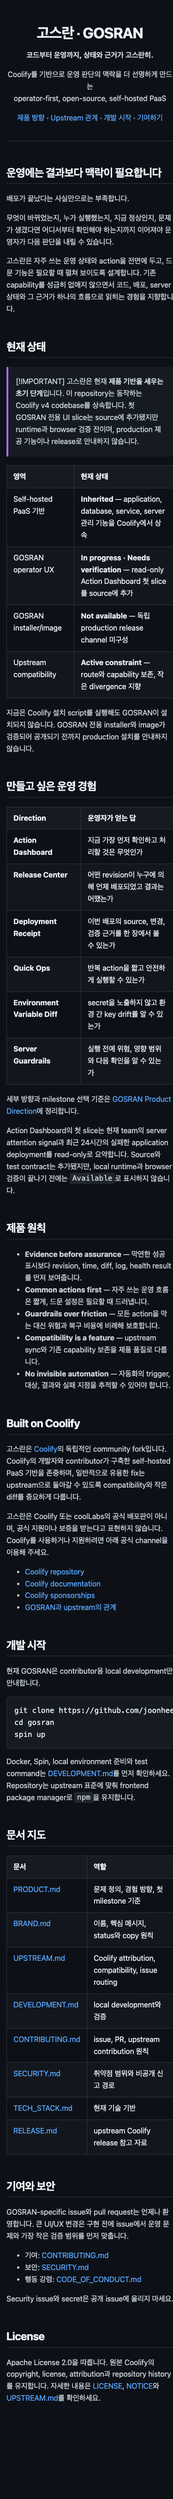
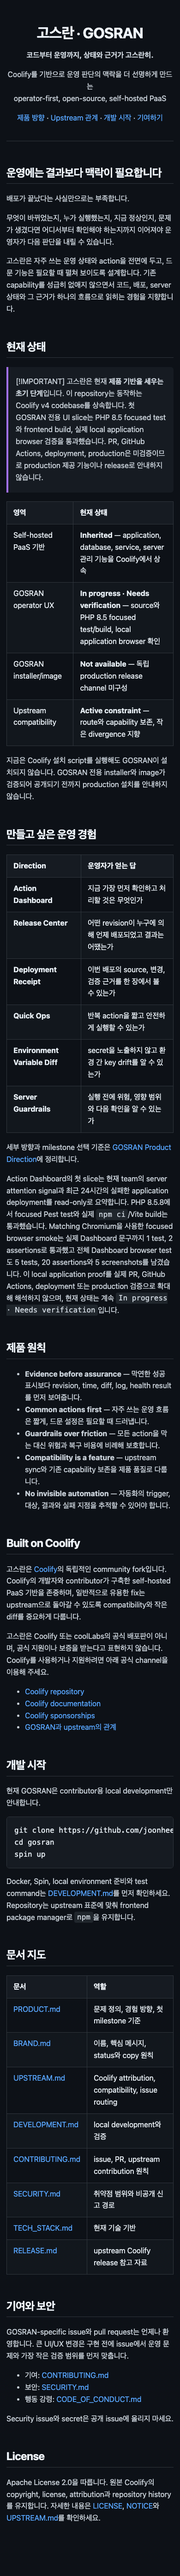
feat(dashboard): close first local milestone

Changed region(s): [[0.0293, 0.0, 0.968, 0.9989]]

diff --git a/tests/Feature/DeploymentShowAuthorizationTest.php b/tests/Feature/DeploymentShowAuthorizationTest.php
@@ -1,0 +1,171 @@
+<?php
+
+use App\Enums\ApplicationDeploymentStatus;
+use App\Models\Application;
+use App\Models\ApplicationDeploymentQueue;
+use App\Models\Environment;
+use App\Models\InstanceSettings;
+use App\Models\Project;
+use App\Models\Server;
+use App\Models\StandaloneDocker;
+use App\Models\Team;
+use App\Models\User;
+use Illuminate\Foundation\Testing\RefreshDatabase;
+
+uses(RefreshDatabase::class);
+
+beforeEach(function () {
+    $this->user = User::factory()->create();
+    $this->team = Team::factory()->create();
+    $this->team->members()->attach($this->user->id, ['role' => 'owner']);
+
+    InstanceSettings::unguarded(function () {
+        InstanceSettings::query()->create([
+            'id' => 0,
+            'is_registration_enabled' => true,
+        ]);
+    });
+
+    $this->actingAs($this->user);
+    session(['currentTeam' => $this->team]);
+
+    $this->server = Server::factory()->create(['team_id' => $this->team->id]);
+    $this->destination = StandaloneDocker::query()->where('server_id', $this->server->id)->firstOrFail();
+    $this->project = Project::factory()->create(['team_id' => $this->team->id]);
+    $this->environment = Environment::factory()->create(['project_id' => $this->project->id]);
+    $this->application = Application::factory()->create([
+        'environment_id' => $this->environment->id,
+        'destination_id' => $this->destination->id,
+        'destination_type' => $this->destination->getMorphClass(),
+        'status' => 'running',
+    ]);
+});
+
+function createDeploymentShowQueue(
+    Application $application,
+    Server $server,
+    string $deploymentUuid,
+    string $logOutput,
+): ApplicationDeploymentQueue {
+    return ApplicationDeploymentQueue::query()->create([
+        'application_id' => $application->id,
+        'deployment_uuid' => $deploymentUuid,
+        'server_id' => $server->id,
+        'status' => ApplicationDeploymentStatus::FINISHED->value,
+        'logs' => json_encode([[
+            'command' => null,
+            'output' => $logOutput,
+            'type' => 'stdout',
+            'timestamp' => now()->toISOString(),
+            'hidden' => false,
+            'batch' => 1,
+            'order' => 1,
+        ]], JSON_THROW_ON_ERROR),
+    ]);
+}
+
+function deploymentShowUrl(
+    Project $project,
+    Environment $environment,
+    Application $application,
+    ApplicationDeploymentQueue $deployment,
+): string {
+    return route('project.application.deployment.show', [
+        'project_uuid' => $project->uuid,
+        'environment_uuid' => $environment->uuid,
+        'application_uuid' => $application->uuid,
+        'deployment_uuid' => $deployment->deployment_uuid,
+    ]);
+}
+
+function deploymentIndexUrl(
+    Project $project,
+    Environment $environment,
+    Application $application,
+): string {
+    return route('project.application.deployment.index', [
+        'project_uuid' => $project->uuid,
+        'environment_uuid' => $environment->uuid,
+        'application_uuid' => $application->uuid,
+    ]);
+}
+
+it('redirects when the deployment belongs to another team', function () {
+    $otherTeam = Team::factory()->create();
+    $otherServer = Server::factory()->create(['team_id' => $otherTeam->id]);
+    $otherDestination = StandaloneDocker::query()->where('server_id', $otherServer->id)->firstOrFail();
+    $otherProject = Project::factory()->create(['team_id' => $otherTeam->id]);
+    $otherEnvironment = Environment::factory()->create(['project_id' => $otherProject->id]);
+    $otherApplication = Application::factory()->create([
+        'environment_id' => $otherEnvironment->id,
+        'destination_id' => $otherDestination->id,
+        'destination_type' => $otherDestination->getMorphClass(),
+    ]);
+    $otherDeployment = createDeploymentShowQueue(
+        $otherApplication,
+        $otherServer,
+        'other-team-deployment',
+        'private deployment output',
+    );
+
+    $response = $this->get(deploymentShowUrl(
+        $this->project,
+        $this->environment,
+        $this->application,
+        $otherDeployment,
+    ));
+
+    $response->assertRedirect(deploymentIndexUrl(
+        $this->project,
+        $this->environment,
+        $this->application,
+    ));
+    $response->assertDontSee('private deployment output');
+});
+
+it('redirects when the deployment belongs to another application in the same team', function () {
+    $otherApplication = Application::factory()->create([
+        'environment_id' => $this->environment->id,
+        'destination_id' => $this->destination->id,
+        'destination_type' => $this->destination->getMorphClass(),
+    ]);
+    $otherDeployment = createDeploymentShowQueue(
+        $otherApplication,
+        $this->server,
+        'same-team-other-application-deployment',
+        'other application output',
+    );
+
+    $response = $this->get(deploymentShowUrl(
+        $this->project,
+        $this->environment,
+        $this->application,
+        $otherDeployment,
+    ));
+
+    $response->assertRedirect(deploymentIndexUrl(
+        $this->project,
+        $this->environment,
+        $this->application,
+    ));
+    $response->assertDontSee('other application output');
+});
+
+it('loads a deployment that belongs to the authorized application', function () {
+    $deployment = createDeploymentShowQueue(
+        $this->application,
+        $this->server,
+        'authorized-application-deployment',
+        'authorized deployment output',
+    );
+
+    $response = $this->get(deploymentShowUrl(
+        $this->project,
+        $this->environment,
+        $this->application,
+        $deployment,
+    ));
+
+    $response->assertSuccessful();
+    $response->assertSee('authorized deployment output');
+});

diff --git a/tests/v4/Browser/DashboardTest.php b/tests/v4/Browser/DashboardTest.php
@@ -13,7 +13,7 @@ use Illuminate\Support\Facades\Hash;
 uses(RefreshDatabase::class);
 
 beforeEach(function () {
-    InstanceSettings::create(['id' => 0, 'is_sponsorship_popup_enabled' => false]);
+    InstanceSettings::unguarded(fn () => InstanceSettings::create(['id' => 0, 'is_sponsorship_popup_enabled' => false]));
 
     $this->user = User::factory()->create([
         'id' => 0,
@@ -119,7 +119,7 @@ it('shows onboarding after first login', function () {
 });
 
 it('shows dashboard after skipping onboarding', function () {
-    $page = loginAndSkipBoarding();
+    $page = loginAndSkipBoarding(loginPage: visit('/login'));
 
     $page->assertSee('Dashboard')
         ->assertSee('Your self-hosted infrastructure.')
@@ -127,7 +127,7 @@ it('shows dashboard after skipping onboarding', function () {
 });
 
 it('shows all projects on dashboard', function () {
-    $page = loginAndSkipBoarding();
+    $page = loginAndSkipBoarding(loginPage: visit('/login'));
 
     $page->assertSee('Projects')
         ->assertSee('My first project')
@@ -140,7 +140,7 @@ it('shows all projects on dashboard', function () {
 });
 
 it('shows servers on dashboard', function () {
-    $page = loginAndSkipBoarding();
+    $page = loginAndSkipBoarding(loginPage: visit('/login'));
 
     $page->assertSee('Servers')
         ->assertSee('localhost')

diff --git a/tests/Pest.php b/tests/Pest.php
@@ -2,6 +2,7 @@
 
 use App\Models\Server;
 use Illuminate\Support\Once;
+use Pest\Browser\Api\PendingAwaitablePage;
 use Tests\TestCase;
 
 /*
@@ -32,9 +33,12 @@ beforeEach(function () {
     Server::flushIdentityMap();
 });
 
-function loginAndSkipBoarding(string $email = 'test@example.com', string $password = 'password'): mixed
-{
-    return visit('/login')
+function loginAndSkipBoarding(
+    PendingAwaitablePage $loginPage,
+    string $email = 'test@example.com',
+    string $password = 'password',
+): mixed {
+    return $loginPage
         ->fill('email', $email)
         ->fill('password', $password)
         ->click('Login')

diff --git a/app/Livewire/Project/Application/Deployment/Show.php b/app/Livewire/Project/Application/Deployment/Show.php
@@ -47,7 +47,9 @@ class Show extends Component
         if (! $application) {
             return redirect()->route('dashboard');
         }
-        $application_deployment_queue = ApplicationDeploymentQueue::where('deployment_uuid', $deploymentUuid)->first();
+        $application_deployment_queue = $application->deployment_queue()
+            ->where('deployment_uuid', $deploymentUuid)
+            ->first();
         if (! $application_deployment_queue) {
             return redirect()->route('project.application.deployment.index', [
                 'project_uuid' => $project->uuid,

diff --git a/bootstrap/helpers/databases.php b/bootstrap/helpers/databases.php
@@ -17,10 +17,8 @@ use App\Models\SwarmDocker;
 use Illuminate\Support\Collection;
 use Illuminate\Support\Facades\Storage;
 use Illuminate\Support\Str;
-use RuntimeException;
 use Symfony\Component\HttpFoundation\File\Exception\FileNotFoundException;
 use Symfony\Component\HttpFoundation\StreamedResponse;
-use Throwable;
 
 function create_standalone_postgresql($environmentId, StandaloneDocker|SwarmDocker $destination, ?array $otherData = null, string $databaseImage = 'postgres:16-alpine'): StandalonePostgresql
 {

diff --git a/docs/artifacts/gosran-docs/claim-boundaries.md b/docs/artifacts/gosran-docs/claim-boundaries.md
@@ -13,12 +13,28 @@ Date: 2026-07-30
   and `npm` according to local manifests, lockfiles, Docker Compose files, and project instructions.
 - The source now contains a read-only Dashboard `Operations` slice for current-team server attention
   signals and recent failed application deployments.
+- PHP 8.5.8 local verification passed Composer validate/install/dump-autoload and package discovery;
+  isolated Pint made no changes.
+- `DashboardOperationsTest` passed with 7 tests and 35 assertions;
+  `DeploymentShowAuthorizationTest` passed with 3 tests and 8 assertions.
+- A real `npm ci` and Vite build passed, using loopback Redis for the focused runtime checks.
+- `pr-quality.yaml` alone passed actionlint 1.7.12. All 15 workflows parse, and the branch contract
+  check passed.
+- The npm dependency lane reported 0 vulnerabilities and passed its Vite build.
+- Local application browser proof passed on PHP 8.5.8 with Pest Browser 4.3.1, Playwright 1.59.1,
+  matching Chromium 147.0.7727.0, loopback Redis, and a temporary SQLite file runtime.
+- The focused Dashboard smoke passed with 1 test and 2 assertions against real Dashboard copy and
+  generated `tests/Browser/Screenshots/it_shows_dashboard_after_skipping_onboarding.png`.
+- The complete `tests/v4/Browser/DashboardTest.php` passed with 5 tests and 20 assertions and
+  generated 5 screenshots.
 
 ## In Progress, Not Yet Available
 
-The Action Dashboard slice is labeled `In progress · Needs verification`. Source inspection confirms
-the implementation and test contract, but no PHP test run or browser render has been completed in
-this checkout.
+The Action Dashboard slice is labeled `In progress · Needs verification`. Focused local Pest and
+frontend build evidence and real local application browser evidence now exist on PHP 8.5.8. The
+previous Pest Browser to Playwright client blocker is resolved. The static README render in this
+artifact is separate documentation evidence; the Dashboard browser tests and their screenshots are
+the application browser evidence.
 
 ## Direction, Not Current Capability
 
@@ -38,13 +54,20 @@ No document presents these items as implemented or production-verified.
 - Running the Coolify installer does not install GOSRAN.
 - No GOSRAN managed cloud is offered.
 - No production-readiness, uptime, security-response SLA, or official Coolify endorsement is claimed.
+- Local PHP 8.5 and application browser verification are not presented as actual PR or GitHub
+  Actions, deployment, or production proof.
+- Whole-repository actionlint is not clean because of pre-existing SC2086 warnings in seven unrelated
+  workflows; only `pr-quality.yaml` is claimed to pass actionlint.
 - The retained `RELEASE.md` is clearly marked as an upstream reference and not a GOSRAN release
   procedure.
-- The inherited PR workflow is disclosed as not yet adapted to GOSRAN's branch policy.
+- A pending local workflow change targets `v4.x` and passed its scoped static checks, but no actual PR
+  or GitHub Actions run verifies it. Public contribution documents remain conservative until the
+  parent integrates that separate lane.
 
 ## Open Operational Gaps
 
 - GOSRAN-specific release, signing, upgrade, rollback, and artifact registry policy are undefined.
 - A dedicated private security and conduct contact channel is not confirmed; the documents provide
   conditional GitHub/private-contact routing without inventing an address.
-- The first UI milestone still needs PHP test and browser evidence before it can be called available.
+- The first UI milestone has local application browser evidence; PR, deployment, and production
+  proof remain separate release gates.

diff --git a/docs/artifacts/gosran-docs/render-review.md b/docs/artifacts/gosran-docs/render-review.md
@@ -6,9 +6,9 @@ Date: 2026-07-30
 
 - Renderer: Python Markdown 3.8 with `fenced_code`, `tables`, and `toc`
 - Browser viewport request: 1440 × 1000 CSS px
-- Reported page width: 1425 CSS px
+- Reported page width: 1440 CSS px
 - Content width: 980 CSS px
-- Document horizontal overflow: none (`scrollWidth` 1425, `clientWidth` 1425)
+- Document horizontal overflow: none (`scrollWidth` 1440, `clientWidth` 1440)
 - H1: `고스란 · GOSRAN`
 - H2 sections: 9
 - Tables: 3
@@ -19,9 +19,10 @@ Date: 2026-07-30
 ## Mobile
 
 - Browser viewport request: 390 × 844 CSS px
-- Reported page width: 375 CSS px (`innerWidth` 390)
-- Document horizontal overflow: none (`scrollWidth` 375, `clientWidth` 375)
-- All three tables fit their 347 CSS px containers without page overflow
+- Reported page width: 390 CSS px
+- Content width: 362 CSS px
+- Document horizontal overflow: none (`scrollWidth` 390, `clientWidth` 390)
+- All three tables fit their 362 CSS px containers without page overflow
 - Hero, navigation links, first narrative section, and status callout remain readable
 - Evidence: `readme-render-mobile.png`
 
@@ -30,8 +31,9 @@ Date: 2026-07-30
 Pass. The hierarchy reads in the intended order: product name, promise, product boundary, experience
 directions, principles, upstream relationship, development, and governance. Long tables remain legible
 without clipping at the inspected desktop and mobile widths. The updated `In progress · Needs
-verification` boundary remains visible in both renders. The local browser reported no page or console
-errors.
+verification` boundary and its PHP 8.5 local test/build and application browser evidence remain
+visible in both renders. The static documentation browser render reported no page or console errors.
+It is separate from the application browser proof recorded in `claim-boundaries.md`.
 
 The local renderer preserves GitHub callout text but does not reproduce GitHub's native
 `[!IMPORTANT]` styling. The content remains readable, and the source uses valid GitHub callout syntax.

diff --git a/docs/BRAND.md b/docs/BRAND.md
@@ -23,7 +23,9 @@
 - 고스란은 [Coolify](https://github.com/coollabsio/coolify)의 독립적인 community fork다.
 - 현재 기능 기반과 runtime 대부분은 Coolify v4에서 상속한다.
 - GOSRAN 전용 production image, installer, managed cloud는 아직 제공하지 않는다.
-- Action Dashboard의 첫 read-only slice는 source에 추가됐지만 runtime 검증 전이므로
+- Action Dashboard의 첫 read-only slice는 source와 focused local Pest test/frontend
+  build를 PHP 8.5에서 확인했고 실제 local application browser test도 Dashboard 문구와
+  screenshots까지 통과했다. PR, deployment, production은 미검증이므로
   `In progress · Needs verification`으로 표현한다.
 - Release Center, deployment receipt, quick ops, environment variable diff, server guardrail은
   제품 방향이며 현재 제공 기능으로 표현하지 않는다.
@@ -57,7 +59,8 @@
 | Inherited | Coolify 기반에서 유지되는 기능 또는 구조 |
 | In progress | 구현 중이며 완료를 주장할 수 없는 작업 |
 | Direction | 탐색 중인 제품 방향. 일정이나 제공을 약속하지 않음 |
-| Needs verification | 코드 또는 문서만 확인했고 실제 환경 증거가 부족함 |
+| Locally verified | 이름을 밝힌 focused test 또는 build가 명시한 local 환경에서 통과함 |
+| Needs verification | target runtime, 실제 browser, PR 또는 production 등 남은 증거가 있음 |
 
 `Direction`을 `Available`처럼 쓰지 않는다. build 성공을 production 배포 증거로 쓰지 않는다.
 로컬 검증을 실제 server, provider, browser 또는 migration 검증과 혼동하지 않는다.

diff --git a/docs/artifacts/gosran-docs/message-strategy.md b/docs/artifacts/gosran-docs/message-strategy.md
@@ -8,8 +8,8 @@ Mode: `strategy`
 
 - GOSRAN is an independent fork of Coolify.
 - The current codebase inherits Coolify v4 functionality.
-- The first read-only Action Dashboard slice exists in source but still needs PHP and browser
-  verification.
+- The first read-only Action Dashboard slice exists in source and passed PHP 8.5 focused local Pest
+  and frontend build checks plus real local application browser assertions and screenshots.
 - No GOSRAN production image, installer, cloud, or release channel is available.
 
 ### Constraints
